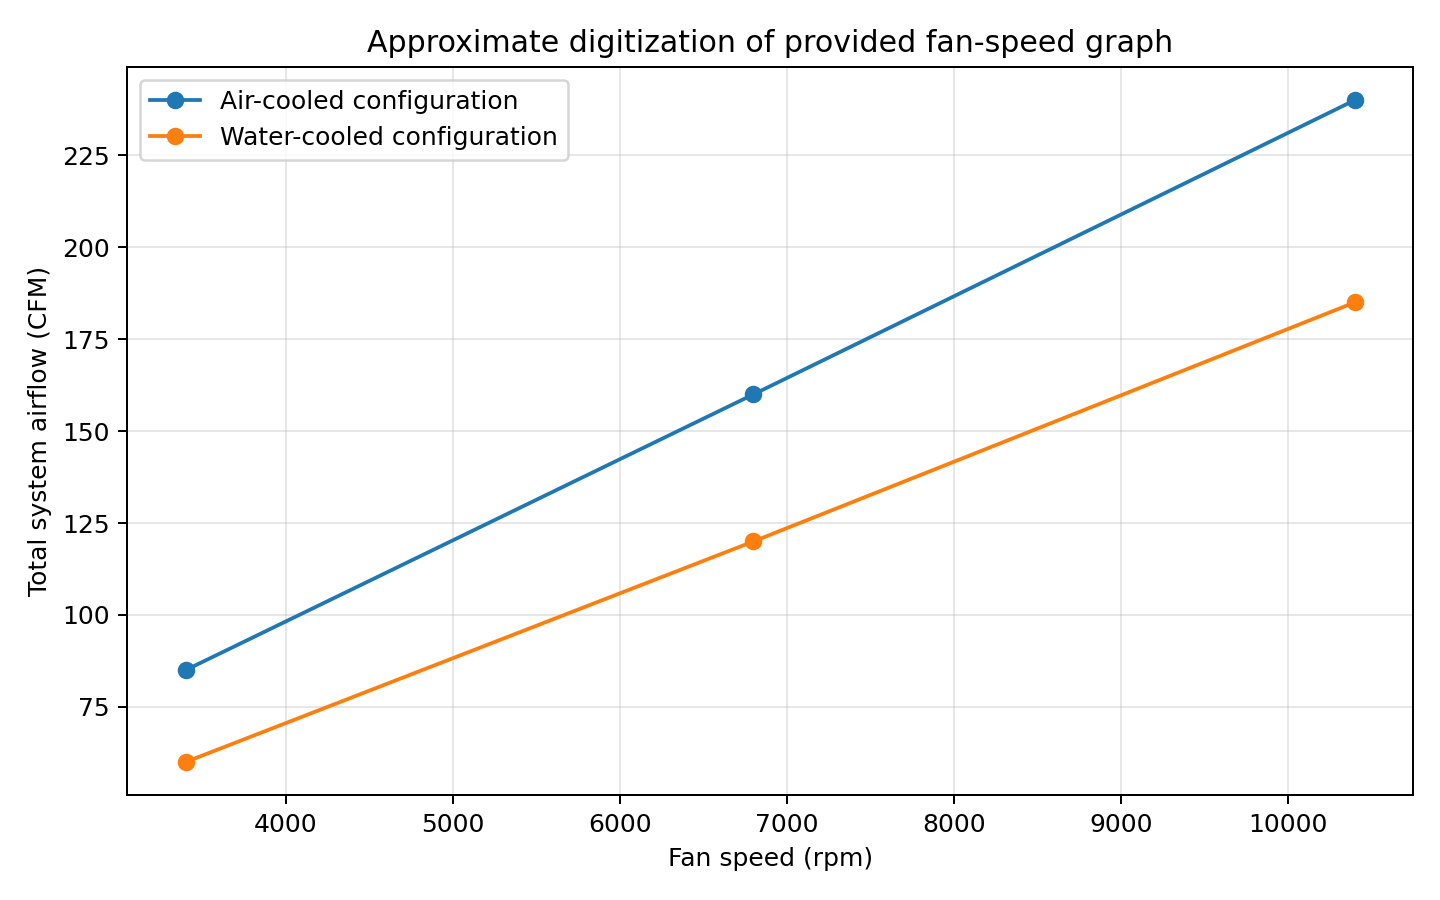
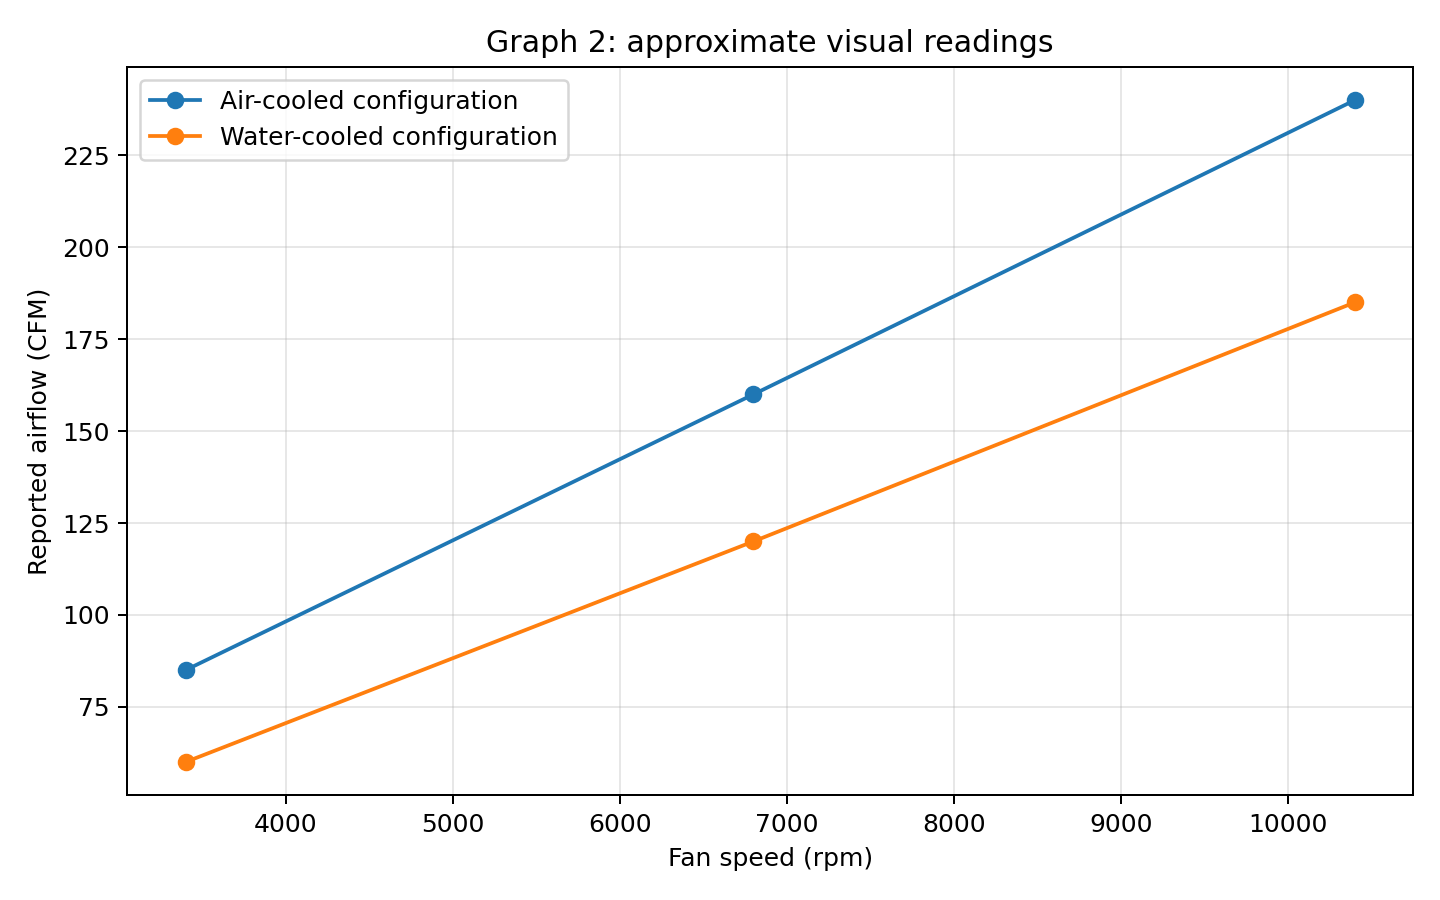
updated code

Changed region(s): [[0.25, 0.0311, 0.8125, 0.0622], [0.0, 0.3111, 0.0312, 0.6533]]

diff --git a/server_fan_analysis.py b/server_fan_analysis.py
@@ -1,131 +1,203 @@
-#Preliminary 2U server fan sizing based on user-provided airflow graphs
-#4 fans side-by-side --> parallel flow
-
-
+"""Preliminary 2U server fan/thermal-fluid analysis.
+Install: pip install numpy matplotlib CoolProp
+All graph values are approximate visual readings, NOT manufacturer specifications.
+No fan static-pressure curve supplied: cannot solve actual fan operating point.
+"""
 import numpy as np
 import matplotlib.pyplot as plt
 
-# -------- USER INPUTS --------
+try:
+    from CoolProp.CoolProp import PropsSI
+except ImportError:
+    PropsSI = None
+
+# ---------------- INPUTS ----------------
 T_IN_C = 35.0
 ALTITUDE_M = 3000.0
 AIR_RISE_K = 15.0
-CP_AIR = 1005.0
 N_FANS = 4
-CPU_COUNT, CPU_W = 2, 600.0  # ASSUMPTION: earlier 600 W per CPU
-GPU_COUNT, GPU_W = 4, 1000.0  # ASSUMPTION: truncated statement means each GPU
+CPU_COUNT, CPU_W = 2, 600.0  # verify 600 W is PER CPU
+GPU_COUNT, GPU_W = 4, 1000.0  # verify original statement
 EXPANSION_W = 75.0
-OTHER_W = 0.0  # Add memory, drives, fans, board, PSU losses as known
-# Alternative package case: set CPU_W=190 or 250 if applicable to same server.
+OTHER_W = 0.0
 
-# Graph 2: APPROXIMATE total system airflow, not per-fan airflow.
+# Graph 2: approximate WHOLE-SERVER flow readings, not flow per fan.
 RPM = np.array([3400., 6800., 10400.])
 AIR_COOLED_CFM = np.array([85., 160., 240.])
 WATER_COOLED_CFM = np.array([60., 120., 185.])
 
-# Graph 1: APPROXIMATE local velocities (m/s), read visually.
+# Graph 1: approximate local air velocities from LEFT axis, m/s.
 PWM = np.array([30., 45., 60., 75., 100.])
 LOCAL_VELOCITY_M_S = {
-    'CPU-A': [1.8, 3.1, 4.4, 5.8, 6.6],
-    'CPU-B': [2.7, 4.1, 5.5, 6.6, 7.4],
-    'GPU-A1': [2.4, 3.8, 5.0, 6.2, 6.8],
-    'GPU-A2': [1.9, 2.8, 3.8, 4.8, 5.5],
-    'GPU-B1': [0.9, 1.8, 2.7, 3.5, 4.2],
-    'PS': [0.9, 1.2, 1.4, 1.8, 1.6],
+    'CPU-A':       [1.8, 3.1, 4.4, 5.8, 6.6],
+    'CPU-B':       [2.7, 4.1, 5.5, 6.6, 7.4],
+    'GPU-A1':      [2.4, 3.8, 5.0, 6.2, 6.8],
+    'GPU-A2':      [1.9, 2.8, 3.8, 4.8, 5.5],
+    'GPU-B1':      [0.9, 1.8, 2.7, 3.5, 4.2],
+    'GPU-B2':      [1.9, 2.7, 3.7, 4.7, 5.5],
+    'PCI-1':       [2.0, 3.2, 4.6, 5.2, 6.1],
+    'PCI-2':       [0.5, 0.6, 0.8, 1.1, 1.4],
+    'PCI-4-Exit':  [2.5, 4.0, 5.4, 6.6, 7.5],
+    'BXE':         [3.2, 4.6, 5.9, 7.0, 7.8],
+    'PS':          [0.9, 1.2, 1.4, 1.8, 1.6],
 }
+# Graph 1 PURPLE dotted curve, read against RIGHT axis in CFM.
+# These values are especially approximate; replace with digitized originals.
+PWM_TOTAL_AIRFLOW_CFM = np.array([45., 135., 180., 230., 255.])
 
-# Optional hydraulic estimate: these are NOT supplied by the assignment.
-# Enter estimated flow area and loss coefficient for each SERIAL segment.
-# For parallel branches, model each branch separately; don't sum them as serial.
+# OPTIONAL flow-loss geometry. Enter only real or explicitly assumed values.
+# Each serial section uses its own cross-sectional area and K.
 SERIAL_LOSSES = {
-    # 'inlet': {'area_m2': 0.02, 'K': 2.0},
-    # 'exhaust': {'area_m2': 0.02, 'K': 1.5},
+    # 'inlet': {'area_m2': 0.020, 'K': 0.5},  # example only
+    # 'outlet': {'area_m2': 0.020, 'K': 1.0}, # example only
 }
+# Optional fin-channel geometry, e.g. s=fin gap, H=channel height, L=flow length.
+# Leave None until actual heatsink dimensions are supplied.
+HEATSINK_CHANNEL = None
+# Example (NOT real geometry):
+# HEATSINK_CHANNEL = {'gap_m': 0.002, 'height_m': 0.025, 'length_m': 0.10,
+#                     'K_entrance': 0.5, 'K_exit': 1.0}
+# If using measured local velocities, only evaluate Nu and pressure drop for
+# a channel if velocity represents the CHANNEL MEAN velocity.
 
 CFM_PER_M3_S = 2118.880003
+R_AIR = 287.05
+
 
 def isa_pressure_pa(altitude_m):
-    """ISA troposphere approximation, valid for 0-11 km altitude."""
+    """ISA troposphere pressure, 0 <= altitude <= 11000 m."""
+    if not 0 <= altitude_m <= 11000:
+        raise ValueError('ISA troposphere model supports 0 to 11 km')
     return 101325.0 * (1.0 - 0.0065 * altitude_m / 288.15) ** 5.25588
 
-def air_density_kg_m3(altitude_m, temp_c):
-    return isa_pressure_pa(altitude_m) / (287.05 * (temp_c + 273.15))
 
-def required_airflow(heat_w, rise_k, rho):
-    mdot = heat_w / (CP_AIR * rise_k)
-    return mdot, mdot / rho * CFM_PER_M3_S
+def air_properties(temp_c, pressure_pa):
+    T = temp_c + 273.15
+    if PropsSI is not None:
+        rho = PropsSI('Dmass', 'T', T, 'P', pressure_pa, 'Air')
+        cp = PropsSI('Cpmass', 'T', T, 'P', pressure_pa, 'Air')
+        mu = PropsSI('VISCOSITY', 'T', T, 'P', pressure_pa, 'Air')
+        k = PropsSI('CONDUCTIVITY', 'T', T, 'P', pressure_pa, 'Air')
+        source = 'CoolProp'
+    else:
+        rho = pressure_pa / (R_AIR * T)
+        cp = 1005.0
+        mu = 1.9e-5  # approximate near 35-50 C
+        k = 0.0275   # approximate near 35-50 C
+        source = 'ideal gas / approximate constant properties'
+    return {'rho': rho, 'cp': cp, 'mu': mu, 'k': k,
+            'Pr': cp * mu / k, 'source': source}
 
-def estimated_serial_pressure_drop_pa(cfm, rho):
+
+def required_airflow(heat_w, rise_k, props):
+    mdot = heat_w / (props['cp'] * rise_k)
+    vdot = mdot / props['rho']
+    return mdot, vdot, vdot * CFM_PER_M3_S
+
+#for steady, incompressible flow between two points in a duct, the pressure drop is given by the Darcy-Weisbach equation:
+def serial_pressure_drop_pa(cfm, rho):
     if not SERIAL_LOSSES:
         return None
     vdot = cfm / CFM_PER_M3_S
-    return sum(0.5 * rho * (vdot / s['area_m2']) ** 2 * s['K']
-               for s in SERIAL_LOSSES.values())
+    return sum(0.5 * rho * (vdot / item['area_m2']) ** 2 * item['K']
+               for item in SERIAL_LOSSES.values())
+
+
+def heatsink_channel_analysis(velocity_m_s, props, geometry):
+    """Rectangular channel estimate; assumes supplied velocity is channel mean.
+    Gnielinski applied only for Re>=3000, subject to smooth fully-developed
+    channel assumptions; laminar rectangular-duct Nu requires another model.
+    """
+    gap = geometry['gap_m']
+    height = geometry['height_m']
+    L = geometry['length_m']
+    dh = 2.0 * gap * height / (gap + height)
+    re = props['rho'] * velocity_m_s * dh / props['mu']
+    if re < 3000:
+        return {'Re': re, 'Dh_m': dh, 'Nu': None, 'h_W_m2K': None,
+                'dP_Pa': None, 'note': 'Gnielinski not valid; use laminar/developing rectangular-duct correlation'}
+    f = (0.79 * np.log(re) - 1.64) ** -2
+    pr = props['Pr']
+    nu = (f / 8) * (re - 1000) * pr / (1 + 12.7 * np.sqrt(f / 8) * (pr ** (2/3) - 1))
+    h = nu * props['k'] / dh
+    k_ent = geometry.get('K_entrance', 0)
+    k_exit = geometry.get('K_exit', 0)
+    dp = (f * L / dh + k_ent + k_exit) * 0.5 * props['rho'] * velocity_m_s ** 2
+    return {'Re': re, 'Dh_m': dh, 'Nu': nu, 'h_W_m2K': h,
+            'dP_Pa': dp, 'note': 'Preliminary smooth-channel approximation'}
+
 
 def main():
-    rho = air_density_kg_m3(ALTITUDE_M, T_IN_C)
+    p = isa_pressure_pa(ALTITUDE_M)
+    props = air_properties(T_IN_C, p)
     heat_w = CPU_COUNT * CPU_W + GPU_COUNT * GPU_W + EXPANSION_W + OTHER_W
-    mdot, required_cfm = required_airflow(heat_w, AIR_RISE_K, rho)
-    max_cfm = AIR_COOLED_CFM[-1]
-    max_heat_removed_w = (max_cfm / CFM_PER_M3_S) * rho * CP_AIR * AIR_RISE_K
-    # Simple fan failure: 3/4 flow only if each fan maintains same operating flow.
-    failure_cfm = max_cfm * (N_FANS - 1) / N_FANS
-    failure_heat_removed_w = (failure_cfm / CFM_PER_M3_S) * rho * CP_AIR * AIR_RISE_K
-    dp = estimated_serial_pressure_drop_pa(max_cfm, rho)
+    mdot, vdot, cfm_req = required_airflow(heat_w, AIR_RISE_K, props)
+    cfm_available = AIR_COOLED_CFM[-1]
+    capacity = (cfm_available / CFM_PER_M3_S) * props['rho'] * props['cp'] * AIR_RISE_K
+    failure_cfm = cfm_available * (N_FANS - 1) / N_FANS
+    dp = serial_pressure_drop_pa(cfm_available, props['rho'])
 
-    print('--- 2U SERVER AIRFLOW ANALYSIS ---')
-    print(f'Inlet temperature: {T_IN_C:.1f} C')
-    print(f'Altitude: {ALTITUDE_M:.0f} m')
-    print(f'Atmospheric pressure (ISA): {isa_pressure_pa(ALTITUDE_M)/1000:.2f} kPa')
-    print(f'Inlet air density: {rho:.3f} kg/m^3')
-    print(f'Total assumed air-cooled heat load: {heat_w:.0f} W')
-    print(f'Required mass flow: {mdot:.3f} kg/s')
-    print(f'Required total airflow: {required_cfm:.1f} CFM')
-    print(f'Max reported air-cooled system airflow: {max_cfm:.0f} CFM')
-    print(f'Air-side heat removal at max flow, {AIR_RISE_K:g} K rise: {max_heat_removed_w:.0f} W')
-    print(f'Available / required airflow: {max_cfm/required_cfm:.1%}')
-    print(f'Approx. one-fan-failure flow: {failure_cfm:.0f} CFM (simplifying assumption)')
-    print(f'Approx. failure heat removal at {AIR_RISE_K:g} K rise: {failure_heat_removed_w:.0f} W')
-    print('Estimated serial pressure drop:',
-          f'{dp:.1f} Pa' if dp is not None else 'Not available: K and area inputs missing')
-    print('CAUTION: fan pressure-flow curve required to verify operating point.')
-    print('CAUTION: check if graph 2 is total-system flow at applicable altitude.')
+    print('--- PRELIMINARY SERVER FAN ANALYSIS ---')
+    print(f'Property model: {props["source"]}')
+    print(f'Altitude: {ALTITUDE_M:.0f} m, inlet T: {T_IN_C:.1f} C, outlet target: {T_IN_C+AIR_RISE_K:.1f} C')
+    print(f'Pressure: {p/1000:.2f} kPa, inlet density: {props["rho"]:.4f} kg/m3')
+    print(f'cp: {props["cp"]:.1f} J/kg-K, mu: {props["mu"]:.3e} Pa-s, k: {props["k"]:.4f} W/m-K, Pr: {props["Pr"]:.3f}')
+    print(f'Assumed heat load: {heat_w:.1f} W')
+    print(f'Required mass flow: {mdot:.4f} kg/s')
+    print(f'Required volumetric flow: {vdot:.4f} m3/s = {cfm_req:.1f} CFM')
+    print(f'Graph 2 air-cooled max: ~{cfm_available:.0f} CFM (graph conditions unverified)')
+    print(f'Heat removal at that flow and 15 K rise: {capacity:.0f} W')
+    print(f'One-fan-out rough estimate: {failure_cfm:.0f} CFM (NOT validated)')
+    print(f'Optional serial pressure drop: {dp:.1f} Pa' if dp is not None
+          else 'Pressure drop NOT calculable without loss/geometry inputs.')
+    if HEATSINK_CHANNEL is not None:
+        result = heatsink_channel_analysis(float(LOCAL_VELOCITY_M_S['CPU-A'][-1]), props, HEATSINK_CHANNEL)
+        print('Illustrative CPU-A channel estimate:', result)
+    print('NOTE: graph 1 and graph 2 are distinct datasets; do not equate their CFM without verification.')
 
-    # Plot 1: Required airflow versus heat load, compared with measured system flow.
-    powers = np.linspace(0, 6500, 250)
-    required = np.array([required_airflow(p, AIR_RISE_K, rho)[1] for p in powers])
+    powers = np.linspace(0, 6500, 200)
+    req = np.array([required_airflow(power, AIR_RISE_K, props)[2] for power in powers])
     fig, ax = plt.subplots(figsize=(8, 5))
-    ax.plot(powers / 1000, required, label='Required flow (15 C air rise)')
-    ax.axhline(max_cfm, linestyle='--', label='Reported max air-cooled flow (~240 CFM)')
-    ax.scatter([heat_w / 1000], [required_cfm], zorder=4, label='Selected load')
-    ax.set(xlabel='Total heat transferred to air (kW)', ylabel='Total airflow (CFM)',
-           title='Required vs. reported server airflow at 3,000 m')
-    ax.grid(alpha=.3)
+    ax.plot(powers / 1000, req, label='Required inlet airflow')
+    ax.axhline(cfm_available, linestyle='--', label='Graph 2 maximum (~240 CFM)')
+    ax.scatter([heat_w / 1000], [cfm_req], label='Selected heat load', zorder=5)
+    ax.set(xlabel='Heat transferred to air (kW)', ylabel='Inlet airflow (CFM)',
+           title='Required airflow vs. reported flow at 3,000 m')
+    ax.grid(alpha=0.3)
     ax.legend()
     fig.tight_layout()
     fig.savefig('required_vs_available_airflow.png', dpi=180)
 
-    # Plot 2: approximate graph 2 data.
     fig, ax = plt.subplots(figsize=(8, 5))
     ax.plot(RPM, AIR_COOLED_CFM, 'o-', label='Air-cooled configuration')
     ax.plot(RPM, WATER_COOLED_CFM, 'o-', label='Water-cooled configuration')
-    ax.set(xlabel='Fan speed (rpm)', ylabel='Total system airflow (CFM)',
-           title='Approximate digitization of provided fan-speed graph')
-    ax.grid(alpha=.3)
+    ax.set(xlabel='Fan speed (rpm)', ylabel='Reported airflow (CFM)',
+           title='Graph 2: approximate visual readings')
+    ax.grid(alpha=0.3)
     ax.legend()
     fig.tight_layout()
     fig.savefig('airflow_vs_fan_speed.png', dpi=180)
 
-    # Plot 3: local velocities from graph 1.
-    fig, ax = plt.subplots(figsize=(8, 5))
-    for name, velocities in LOCAL_VELOCITY_M_S.items():
-        ax.plot(PWM, velocities, 'o-', label=name)
-    ax.set(xlabel='Main fan PWM (%)', ylabel='Local air velocity (m/s)',
-           title='Approximate digitization of local velocity graph')
-    ax.grid(alpha=.3)
-    ax.legend(ncol=2)
+    fig, ax = plt.subplots(figsize=(10, 6))
+    for name, values in LOCAL_VELOCITY_M_S.items():
+        ax.plot(PWM, values, marker='o', linewidth=1.3, label=name)
+    ax.set(xlabel='Main fan PWM (%)', ylabel='Local velocity (m/s)',
+           title='Graph 1: all local velocity curves (approximate)')
+    ax.grid(alpha=0.3)
+    ax.legend(ncol=3, fontsize=8)
     fig.tight_layout()
     fig.savefig('local_air_velocity_vs_pwm.png', dpi=180)
+
+    fig, ax = plt.subplots(figsize=(8, 5))
+    ax.plot(PWM, PWM_TOTAL_AIRFLOW_CFM, 'o-', label='Graph 1: right-hand CFM axis')
+    ax.set(xlabel='Main fan PWM (%)', ylabel='Reported total airflow (CFM)',
+           title='Graph 1: total airflow vs. PWM (rough visual readings)')
+    ax.grid(alpha=0.3)
+    ax.legend()
+    fig.tight_layout()
+    fig.savefig('total_airflow_vs_pwm.png', dpi=180)
     plt.show()
+
 
 if __name__ == '__main__':
     main()
